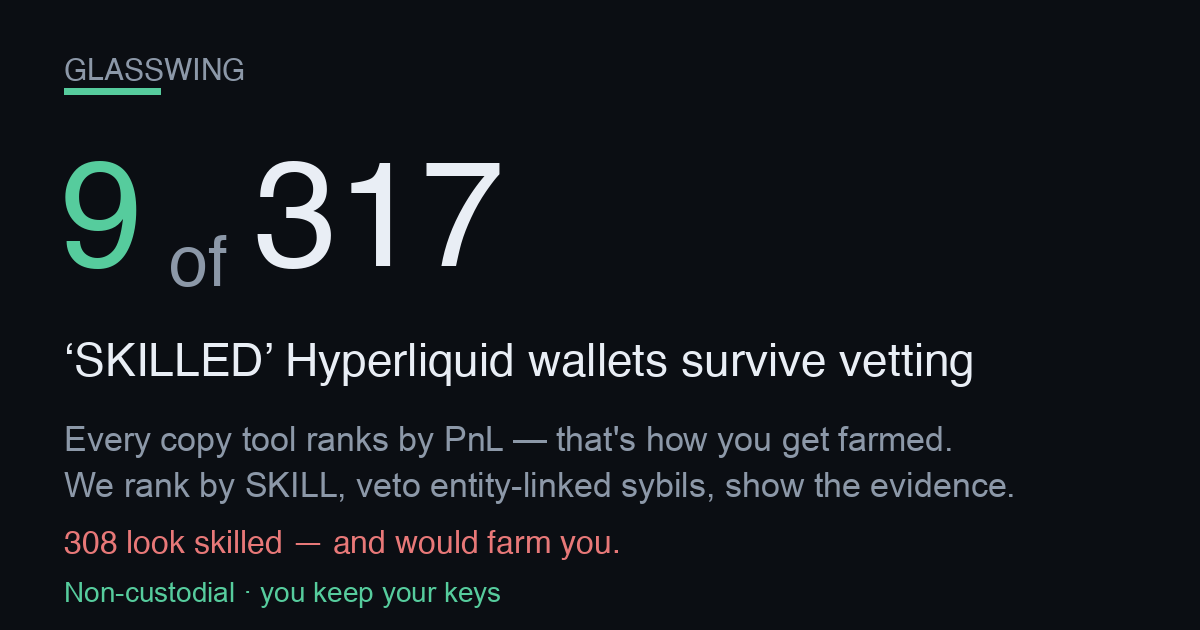
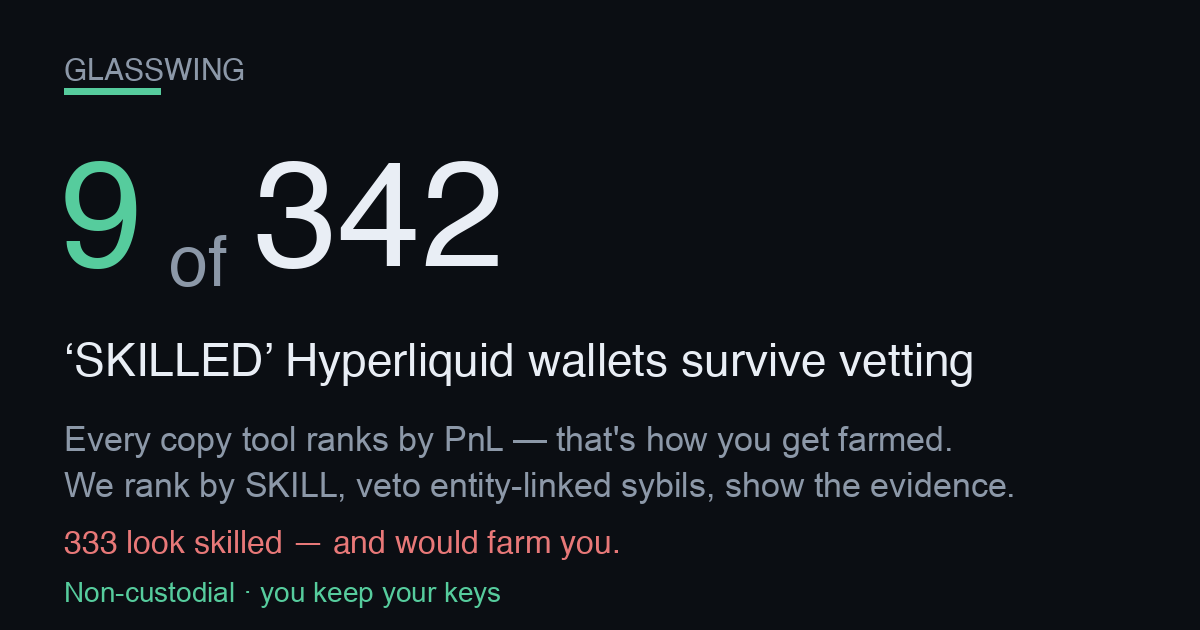
publish funnel 2026-09-06T02:05:58Z

Changed region(s): [[0.2775, 0.2413, 0.4317, 0.4222], [0.0617, 0.8444, 0.0925, 0.8746]]

diff --git a/screener.html b/screener.html
@@ -57,4 +57,4 @@ padding:11px 22px;font-size:15px;font-weight:800;border:1px solid var(--good)}
 footer{margin-top:34px;color:var(--muted);font-size:12px;line-height:1.6;
 border-top:1px solid var(--line);padding-top:16px}
 footer b{color:var(--ink)}
-</style></head><body><div class="wrap"><div class="nav"><a href="./index.html">&larr; Glasswing home</a><span class="sep">|</span><span>Edge Screener</span><span class="sep">|</span><a href="./dex.html">Copy a vetted leader</a></div><div class="hero"><h1>Hyperliquid Edge Screener</h1><div class="sub">Where&rsquo;s the carry, where a maker earns, and what&rsquo;s moving on Hyperliquid &mdash; live, computed from the public API. Bookmark it. Every number below is real and timestamped.</div><div class="stamp">Data as of <b>2026-08-31T03:13:58Z</b> &middot; rendered 2026-08-31T03:13:58Z &middot; 176 perps &middot; 103 HIP-3 (xyz) markets scanned</div></div><h2>Top funding &mdash; the carry table <span class="hint">perps ranked by annualized funding. Positive = longs pay shorts (a delta-neutral short earns it).</span></h2><div class="tblwrap"><table><thead><tr><th>Coin</th><th>Funding / hr</th><th>Annualized</th><th>Who pays</th><th>Open interest</th><th>24h volume</th></tr></thead><tbody><tr><td class="coin">SKR</td><td>-0.4035%</td><td class="neg">-3534.5%</td><td><span class="tag shorts">shorts pay</span></td><td>$7.1M</td><td>$25.5M</td></tr><tr><td class="coin">ZORA</td><td>-0.1722%</td><td class="neg">-1508.2%</td><td><span class="tag shorts">shorts pay</span></td><td>$2.9M</td><td>$1.9M</td></tr><tr><td class="coin">ANIME<span class="tag thin" title="Low liquidity/OI &mdash; ADL &amp; liquidation risk; funding can flip">&#9888; thin</span></td><td>-0.0563%</td><td class="neg">-493.5%</td><td><span class="tag shorts">shorts pay</span></td><td>$245K</td><td>$397K</td></tr><tr><td class="coin">KAITO</td><td>-0.0245%</td><td class="neg">-214.4%</td><td><span class="tag shorts">shorts pay</span></td><td>$2.6M</td><td>$1.5M</td></tr><tr><td class="coin">APEX<span class="tag thin" title="Low liquidity/OI &mdash; ADL &amp; liquidation risk; funding can flip">&#9888; thin</span></td><td>+0.0213%</td><td class="pos">+186.9%</td><td><span class="tag longs">longs pay</span></td><td>$3.0M</td><td>$168K</td></tr><tr><td class="coin">0G<span class="tag thin" title="Low liquidity/OI &mdash; ADL &amp; liquidation risk; funding can flip">&#9888; thin</span></td><td>-0.0115%</td><td class="neg">-100.8%</td><td><span class="tag shorts">shorts pay</span></td><td>$132K</td><td>$241K</td></tr><tr><td class="coin">XMR</td><td>+0.0089%</td><td class="pos">+78.0%</td><td><span class="tag longs">longs pay</span></td><td>$82.5M</td><td>$66.1M</td></tr><tr><td class="coin">SAND<span class="tag thin" title="Low liquidity/OI &mdash; ADL &amp; liquidation risk; funding can flip">&#9888; thin</span></td><td>-0.0081%</td><td class="neg">-71.3%</td><td><span class="tag shorts">shorts pay</span></td><td>$499K</td><td>$195K</td></tr><tr><td class="coin">ZEC</td><td>-0.0080%</td><td class="neg">-69.7%</td><td><span class="tag shorts">shorts pay</span></td><td>$461.2M</td><td>$390.2M</td></tr><tr><td class="coin">APT</td><td>-0.0064%</td><td class="neg">-55.9%</td><td><span class="tag shorts">shorts pay</span></td><td>$3.7M</td><td>$1.3M</td></tr><tr><td class="coin">W<span class="tag thin" title="Low liquidity/OI &mdash; ADL &amp; liquidation risk; funding can flip">&#9888; thin</span></td><td>-0.0059%</td><td class="neg">-51.2%</td><td><span class="tag shorts">shorts pay</span></td><td>$1.3M</td><td>$207K</td></tr><tr><td class="coin">OP</td><td>-0.0053%</td><td class="neg">-46.2%</td><td><span class="tag shorts">shorts pay</span></td><td>$2.9M</td><td>$639K</td></tr></tbody></table></div><h2>Widest HIP-3 spreads &mdash; where a maker earns <span class="hint">xyz: markets by impact-price spread vs the ~0.6bps round-trip fee. A resting limit order captures the gap.</span></h2><div class="tblwrap"><table><thead><tr><th>Market</th><th>Spread</th><th>vs 0.6bps fee</th><th>Mid</th><th>24h volume</th></tr></thead><tbody><tr><td class="coin">xyz:BIRD<span class="tag gm">growth</span></td><td>168.6 bps</td><td class="pos">+168.0 bps</td><td>2.5284</td><td>$14K</td></tr><tr><td class="coin">xyz:SOFTBANK<span class="tag gm">growth</span></td><td>111.3 bps</td><td class="pos">+110.7 bps</td><td>31.5380</td><td>$59K</td></tr><tr><td class="coin">xyz:SHEIN<span class="tag gm">growth</span></td><td>99.0 bps</td><td class="pos">+98.4 bps</td><td>6.4710</td><td>$750K</td></tr><tr><td class="coin">xyz:NCLD<span class="tag gm">growth</span></td><td>86.6 bps</td><td class="pos">+86.0 bps</td><td>21.7730</td><td>$33K</td></tr><tr><td class="coin">xyz:NET<span class="tag gm">growth</span></td><td>77.1 bps</td><td class="pos">+76.5 bps</td><td>297.3850</td><td>$28K</td></tr><tr><td class="coin">xyz:ZM<span class="tag gm">growth</span></td><td>68.7 bps</td><td class="pos">+68.1 bps</td><td>98.4160</td><td>$28K</td></tr><tr><td class="coin">xyz:XBI<span class="tag gm">growth</span></td><td>66.5 bps</td><td class="pos">+65.9 bps</td><td>161.8150</td><td>$12K</td></tr><tr><td class="coin">xyz:PURRDAT</td><td>61.0 bps</td><td class="pos">+60.4 bps</td><td>11.7065</td><td>$2.2M</td></tr><tr><td class="coin">xyz:DKNG<span class="tag gm">growth</span></td><td>53.0 bps</td><td class="pos">+52.4 bps</td><td>25.2370</td><td>$20K</td></tr><tr><td class="coin">xyz:RDDT<span class="tag gm">growth</span></td><td>51.9 bps</td><td class="pos">+51.3 bps</td><td>152.2400</td><td>$73K</td></tr><tr><td class="coin">xyz:LYTE<span class="tag gm">growth</span></td><td>46.3 bps</td><td class="pos">+45.7 bps</td><td>24.0125</td><td>$80K</td></tr><tr><td class="coin">xyz:SHAZ<span class="tag gm">growth</span></td><td>46.0 bps</td><td class="pos">+45.4 bps</td><td>51.5945</td><td>$80K</td></tr></tbody></table></div><h2>Momentum &amp; volume &mdash; what&rsquo;s moving <span class="hint">perps by 24h volume with the 24h price change (mark vs prior-day).</span></h2><div class="tblwrap"><table><thead><tr><th>Coin</th><th>24h volume</th><th>24h change</th><th>Mark</th></tr></thead><tbody><tr><td class="coin">BTC</td><td>$2.03B</td><td class="neg">-0.53%</td><td>77,642.00</td></tr><tr><td class="coin">ETH</td><td>$1.45B</td><td class="neg">-1.63%</td><td>2,415.30</td></tr><tr><td class="coin">SOL</td><td>$543.3M</td><td class="neg">-3.15%</td><td>101.7100</td></tr><tr><td class="coin">HYPE</td><td>$411.1M</td><td class="neg">-3.23%</td><td>80.2440</td></tr><tr><td class="coin">ZEC</td><td>$390.2M</td><td class="neg">-1.98%</td><td>816.5800</td></tr><tr><td class="coin">PUMP</td><td>$145.7M</td><td class="neg">-14.87%</td><td>0.004237</td></tr><tr><td class="coin">XRP</td><td>$84.0M</td><td class="neg">-3.04%</td><td>1.3506</td></tr><tr><td class="coin">XMR</td><td>$66.1M</td><td class="pos">+5.25%</td><td>499.1000</td></tr><tr><td class="coin">LIT</td><td>$52.6M</td><td class="neg">-1.06%</td><td>3.4840</td></tr><tr><td class="coin">UNI</td><td>$45.3M</td><td class="pos">+2.67%</td><td>5.0267</td></tr><tr><td class="coin">TRUMP</td><td>$34.6M</td><td class="neg">-9.49%</td><td>2.3623</td></tr><tr><td class="coin">ENA</td><td>$32.3M</td><td class="neg">-6.95%</td><td>0.14773</td></tr></tbody></table></div><div class="cta"><h2>These are the opportunities. Now copy the people who trade them.</h2><p class="lead">Spotting the carry and the spreads is the easy part &mdash; sizing, timing and risk are where most traders bleed. Copy the <b>skill-vetted</b> Hyperliquid leaders who actually trade these edges. Non-custodial: <b>you keep your keys and your funds</b> the entire time.</p><div class="row"><a class="btn" href="./index.html">See the vetted leaders &rarr;</a><a class="btn ghost" href="./dex.html">Start copying (non-custodial) &rarr;</a></div><div class="nc"><b>Non-custodial &amp; honest:</b> we never hold your keys or funds. Copying routes through a <b>0.01%</b> (1bp) on-chain builder fee &mdash; that is the only thing we ever charge, and it is the same fee shown on the copy page. Nothing on this screener is executed for you; it is information only.</div></div><footer><b>Not financial advice.</b> Funding rates, spreads and volumes are live snapshots that change every block; figures can be stale by the time you act. A high funding rate is <b>not free money</b> &mdash; the biggest rates sit on the thinnest, most crowded books (flagged &#9888; thin), where funding can flip against you and auto-deleveraging (ADL) or liquidation can close your position. &ldquo;Spread&rdquo; here is the impact-price spread (a conservative maker signal), not a guaranteed fill. HIP-3 markets are experimental. Do your own research and size responsibly. Glasswing is <b>non-custodial</b> &mdash; we never take custody of your keys or funds.</footer></div></body></html>
+</style></head><body><div class="wrap"><div class="nav"><a href="./index.html">&larr; Glasswing home</a><span class="sep">|</span><span>Edge Screener</span><span class="sep">|</span><a href="./dex.html">Copy a vetted leader</a></div><div class="hero"><h1>Hyperliquid Edge Screener</h1><div class="sub">Where&rsquo;s the carry, where a maker earns, and what&rsquo;s moving on Hyperliquid &mdash; live, computed from the public API. Bookmark it. Every number below is real and timestamped.</div><div class="stamp">Data as of <b>2026-09-06T02:03:11Z</b> &middot; rendered 2026-09-06T02:03:11Z &middot; 177 perps &middot; 104 HIP-3 (xyz) markets scanned</div></div><h2>Top funding &mdash; the carry table <span class="hint">perps ranked by annualized funding. Positive = longs pay shorts (a delta-neutral short earns it).</span></h2><div class="tblwrap"><table><thead><tr><th>Coin</th><th>Funding / hr</th><th>Annualized</th><th>Who pays</th><th>Open interest</th><th>24h volume</th></tr></thead><tbody><tr><td class="coin">HEMI</td><td>-0.0600%</td><td class="neg">-525.9%</td><td><span class="tag shorts">shorts pay</span></td><td>$1.3M</td><td>$3.0M</td></tr><tr><td class="coin">SKR</td><td>-0.0534%</td><td class="neg">-467.9%</td><td><span class="tag shorts">shorts pay</span></td><td>$2.5M</td><td>$1.7M</td></tr><tr><td class="coin">ACE</td><td>-0.0482%</td><td class="neg">-422.0%</td><td><span class="tag shorts">shorts pay</span></td><td>$1.1M</td><td>$614K</td></tr><tr><td class="coin">GRIFFAIN<span class="tag thin" title="Low liquidity/OI &mdash; ADL &amp; liquidation risk; funding can flip">&#9888; thin</span></td><td>+0.0181%</td><td class="pos">+158.7%</td><td><span class="tag longs">longs pay</span></td><td>$858K</td><td>$29K</td></tr><tr><td class="coin">MOODENG</td><td>+0.0151%</td><td class="pos">+132.2%</td><td><span class="tag longs">longs pay</span></td><td>$911K</td><td>$1.1M</td></tr><tr><td class="coin">PUMP</td><td>+0.0127%</td><td class="pos">+111.0%</td><td><span class="tag longs">longs pay</span></td><td>$176.8M</td><td>$84.3M</td></tr><tr><td class="coin">BSV<span class="tag thin" title="Low liquidity/OI &mdash; ADL &amp; liquidation risk; funding can flip">&#9888; thin</span></td><td>+0.0124%</td><td class="pos">+108.7%</td><td><span class="tag longs">longs pay</span></td><td>$503K</td><td>$116K</td></tr><tr><td class="coin">MINA</td><td>-0.0123%</td><td class="neg">-108.2%</td><td><span class="tag shorts">shorts pay</span></td><td>$2.5M</td><td>$321K</td></tr><tr><td class="coin">KAS</td><td>+0.0113%</td><td class="pos">+99.1%</td><td><span class="tag longs">longs pay</span></td><td>$2.0M</td><td>$355K</td></tr><tr><td class="coin">GRAM</td><td>+0.0110%</td><td class="pos">+96.5%</td><td><span class="tag longs">longs pay</span></td><td>$31.0M</td><td>$3.4M</td></tr><tr><td class="coin">MON</td><td>+0.0106%</td><td class="pos">+92.8%</td><td><span class="tag longs">longs pay</span></td><td>$37.2M</td><td>$7.4M</td></tr><tr><td class="coin">PONS</td><td>+0.0102%</td><td class="pos">+89.5%</td><td><span class="tag longs">longs pay</span></td><td>$124.5M</td><td>$182.9M</td></tr></tbody></table></div><h2>Widest HIP-3 spreads &mdash; where a maker earns <span class="hint">xyz: markets by impact-price spread vs the ~0.6bps round-trip fee. A resting limit order captures the gap.</span></h2><div class="tblwrap"><table><thead><tr><th>Market</th><th>Spread</th><th>vs 0.6bps fee</th><th>Mid</th><th>24h volume</th></tr></thead><tbody><tr><td class="coin">xyz:NCLD<span class="tag gm">growth</span></td><td>235.2 bps</td><td class="pos">+234.6 bps</td><td>24.1315</td><td>$5K</td></tr><tr><td class="coin">xyz:GIGADEV<span class="tag gm">growth</span></td><td>219.6 bps</td><td class="pos">+219.0 bps</td><td>58.3500</td><td>$69K</td></tr><tr><td class="coin">xyz:BIRD<span class="tag gm">growth</span></td><td>139.0 bps</td><td class="pos">+138.4 bps</td><td>2.5180</td><td>$6K</td></tr><tr><td class="coin">xyz:PURRDAT</td><td>132.1 bps</td><td class="pos">+131.5 bps</td><td>12.3365</td><td>$768K</td></tr><tr><td class="coin">xyz:MAGS<span class="tag gm">growth</span></td><td>122.4 bps</td><td class="pos">+121.8 bps</td><td>69.0520</td><td>$92K</td></tr><tr><td class="coin">xyz:QNT<span class="tag gm">growth</span></td><td>99.6 bps</td><td class="pos">+99.0 bps</td><td>50.6905</td><td>$67K</td></tr><tr><td class="coin">xyz:URNM<span class="tag gm">growth</span></td><td>96.4 bps</td><td class="pos">+95.8 bps</td><td>57.8465</td><td>$16K</td></tr><tr><td class="coin">xyz:BOT<span class="tag gm">growth</span></td><td>90.7 bps</td><td class="pos">+90.1 bps</td><td>27.0055</td><td>$21K</td></tr><tr><td class="coin">xyz:SOFTBANK<span class="tag gm">growth</span></td><td>82.7 bps</td><td class="pos">+82.1 bps</td><td>35.7820</td><td>$4K</td></tr><tr><td class="coin">xyz:BMNR</td><td>80.7 bps</td><td class="pos">+80.1 bps</td><td>25.5790</td><td>$108K</td></tr><tr><td class="coin">xyz:SHEIN<span class="tag gm">growth</span></td><td>78.3 bps</td><td class="pos">+77.7 bps</td><td>4.9787</td><td>$100K</td></tr><tr><td class="coin">xyz:RDDT<span class="tag gm">growth</span></td><td>74.7 bps</td><td class="pos">+74.1 bps</td><td>155.4450</td><td>$45K</td></tr></tbody></table></div><h2>Momentum &amp; volume &mdash; what&rsquo;s moving <span class="hint">perps by 24h volume with the 24h price change (mark vs prior-day).</span></h2><div class="tblwrap"><table><thead><tr><th>Coin</th><th>24h volume</th><th>24h change</th><th>Mark</th></tr></thead><tbody><tr><td class="coin">BTC</td><td>$766.0M</td><td class="pos">+0.52%</td><td>79,901.00</td></tr><tr><td class="coin">ETH</td><td>$380.5M</td><td class="pos">+2.20%</td><td>2,505.10</td></tr><tr><td class="coin">HYPE</td><td>$198.8M</td><td class="pos">+1.38%</td><td>85.2130</td></tr><tr><td class="coin">PONS</td><td>$182.9M</td><td class="pos">+42.19%</td><td>0.94905</td></tr><tr><td class="coin">ZEC</td><td>$177.3M</td><td class="pos">+5.43%</td><td>1,067.97</td></tr><tr><td class="coin">SOL</td><td>$91.6M</td><td class="pos">+2.08%</td><td>103.9300</td></tr><tr><td class="coin">PUMP</td><td>$84.3M</td><td class="neg">-7.47%</td><td>0.003912</td></tr><tr><td class="coin">ARB</td><td>$64.8M</td><td class="pos">+46.49%</td><td>0.19338</td></tr><tr><td class="coin">BNB</td><td>$49.2M</td><td class="pos">+6.03%</td><td>764.1000</td></tr><tr><td class="coin">UNI</td><td>$48.2M</td><td class="pos">+20.05%</td><td>7.3768</td></tr><tr><td class="coin">LIT</td><td>$43.1M</td><td class="neg">-1.19%</td><td>4.6780</td></tr><tr><td class="coin">NEAR</td><td>$38.6M</td><td class="neg">-0.45%</td><td>2.2048</td></tr></tbody></table></div><div class="cta"><h2>These are the opportunities. Now copy the people who trade them.</h2><p class="lead">Spotting the carry and the spreads is the easy part &mdash; sizing, timing and risk are where most traders bleed. Copy the <b>skill-vetted</b> Hyperliquid leaders who actually trade these edges. Non-custodial: <b>you keep your keys and your funds</b> the entire time.</p><div class="row"><a class="btn" href="./index.html">See the vetted leaders &rarr;</a><a class="btn ghost" href="./dex.html">Start copying (non-custodial) &rarr;</a></div><div class="nc"><b>Non-custodial &amp; honest:</b> we never hold your keys or funds. Copying routes through a <b>0.01%</b> (1bp) on-chain builder fee &mdash; that is the only thing we ever charge, and it is the same fee shown on the copy page. Nothing on this screener is executed for you; it is information only.</div></div><footer><b>Not financial advice.</b> Funding rates, spreads and volumes are live snapshots that change every block; figures can be stale by the time you act. A high funding rate is <b>not free money</b> &mdash; the biggest rates sit on the thinnest, most crowded books (flagged &#9888; thin), where funding can flip against you and auto-deleveraging (ADL) or liquidation can close your position. &ldquo;Spread&rdquo; here is the impact-price spread (a conservative maker signal), not a guaranteed fill. HIP-3 markets are experimental. Do your own research and size responsibly. Glasswing is <b>non-custodial</b> &mdash; we never take custody of your keys or funds.</footer></div></body></html>

diff --git a/track.html b/track.html
@@ -62,35 +62,35 @@ font-weight:600;font-size:14px}
 <div class="wrap">
   <div class="hero">
     <h1>Self-verifying on-chain track record</h1>
-    <div class="big">$185.91</div>
+    <div class="big">—</div>
     <div class="sub">current on-chain equity (perp + vault + spot USDC)</div>
     <div class="addr">0xbe6C1b09662BbE52CC93279D103Feb27985DdBc1</div>
-    <div class="stage building">43 days live — BUILDING</div>
+    <div class="stage building">49 days live — BUILDING</div>
   </div>
 
   
 
   <h2>On-chain figures <span style="color:var(--muted);font-weight:400;font-size:13px">
   &mdash; every one reproducible from the public info API</span></h2>
-  <table><tbody><tr><td class="k">On-chain equity (perp + vault + spot USDC)</td><td class="v">$185.91</td></tr><tr><td class="k">Perp account value</td><td class="v">$101.99</td></tr><tr><td class="k">Vault equity</td><td class="v">$29.13</td></tr><tr><td class="k">Spot USDC</td><td class="v">$54.79</td></tr><tr><td class="k">Withdrawable</td><td class="v">$24.16</td></tr></tbody></table>
+  <table><tbody><tr><td class="k">On-chain equity (perp + vault + spot USDC)</td><td class="v">—</td></tr><tr><td class="k">Perp account value</td><td class="v">—</td></tr><tr><td class="k">Vault equity</td><td class="v">—</td></tr><tr><td class="k">Spot USDC</td><td class="v">—</td></tr><tr><td class="k">Withdrawable</td><td class="v">—</td></tr></tbody></table>
 
-  <h2>Vault deposits (on-chain)</h2><table><thead><tr><th>Vault address</th><th>Our equity</th></tr></thead><tbody><tr><td class="mono">0x2431edfcb662e6ff6deab113cc91878a0b53fb0f</td><td class="v">$0.01</td></tr><tr><td class="mono">0x697bc3dd77539fa84156d0e1c95287ea5524fd6b</td><td class="v">$0.00</td></tr><tr><td class="mono">0x8825e6ed11c7f9c0874579c9f4bba192b9e81c8f</td><td class="v">$0.13</td></tr><tr><td class="mono">0xc71f5a493b937e4b1798b86510630336a6dfd804</td><td class="v">$28.99</td></tr></tbody></table>
+  
 
   <h2>Performance <span style="color:var(--muted);font-weight:400;font-size:13px">
   &mdash; honest stage, no annualization</span></h2>
-  <table><tbody><tr><td class="k">Days live (our formal record)</td><td class="v">43</td></tr><tr><td class="k">Maturity</td><td class="v">BUILDING</td></tr><tr><td class="k">Current real strategy income / day</td><td class="v">$0.0410</td></tr><tr><td class="k">Cumulative net income (if attributed)</td><td class="v">$36.7069</td></tr><tr><td class="k">Annualized APR</td><td class="v">shown per-day above</td></tr></tbody></table>
+  <table><tbody><tr><td class="k">Days live (our formal record)</td><td class="v">49</td></tr><tr><td class="k">Maturity</td><td class="v">BUILDING</td></tr><tr><td class="k">Current real strategy income / day</td><td class="v">$0.0621</td></tr><tr><td class="k">Cumulative net income (if attributed)</td><td class="v">$37.1084</td></tr><tr><td class="k">Annualized APR</td><td class="v">shown per-day above</td></tr></tbody></table>
 
   <h2>Strategy arms <span style="color:var(--muted);font-weight:400;font-size:13px">
   &mdash; internal marks, cross-checkable against chain equity</span></h2>
-  <table><thead><tr><th>Arm</th><th>Status</th><th>Real / day</th><th>Note</th></tr></thead><tbody><tr><td class="v">carry</td><td><span class="badge live">live</span></td><td class="v">$0.0410</td><td class="k"></td></tr><tr><td class="v">copy</td><td><span class="badge live">live</span></td><td class="v">$0.0000</td><td class="k"></td></tr><tr><td class="v">builder</td><td><span class="badge off">—</span></td><td class="v">$0.0000</td><td class="k">proven live; $0 until distributed (∝ users&#x27; volume)</td></tr></tbody></table>
+  <table><thead><tr><th>Arm</th><th>Status</th><th>Real / day</th><th>Note</th></tr></thead><tbody><tr><td class="v">carry</td><td><span class="badge live">live</span></td><td class="v">$0.0621</td><td class="k"></td></tr><tr><td class="v">copy</td><td><span class="badge live">live</span></td><td class="v">$0.0000</td><td class="k"></td></tr><tr><td class="v">builder</td><td><span class="badge off">—</span></td><td class="v">$0.0000</td><td class="k">proven live; $0 until distributed (∝ users&#x27; volume)</td></tr></tbody></table>
 
   <h2>Reproduce it</h2>
   <div class="verify"><h3>Verify this yourself</h3><p>These are PUBLIC calls. Run them yourself against the address below and you will re-derive every on-chain figure on this page. equity_usd = perp accountValue + vault equity + spot USDC. Endpoint: https://api.hyperliquid.xyz/info</p><div class="cn">clearinghouseState &rarr; marginSummary.accountValue (perp value), withdrawable, marginSummary.totalMarginUsed</div><pre>curl -s -X POST https://api.hyperliquid.xyz/info -H &#x27;Content-Type: application/json&#x27; -d &#x27;{&quot;type&quot;: &quot;clearinghouseState&quot;, &quot;user&quot;: &quot;0xbe6C1b09662BbE52CC93279D103Feb27985DdBc1&quot;}&#x27;</pre><div class="cn">userVaultEquities &rarr; sum of each entry&#x27;s equity (our vault deposits)</div><pre>curl -s -X POST https://api.hyperliquid.xyz/info -H &#x27;Content-Type: application/json&#x27; -d &#x27;{&quot;type&quot;: &quot;userVaultEquities&quot;, &quot;user&quot;: &quot;0xbe6C1b09662BbE52CC93279D103Feb27985DdBc1&quot;}&#x27;</pre><div class="cn">spotClearinghouseState &rarr; balances[] where coin==USDC -&gt; total (spot USDC)</div><pre>curl -s -X POST https://api.hyperliquid.xyz/info -H &#x27;Content-Type: application/json&#x27; -d &#x27;{&quot;type&quot;: &quot;spotClearinghouseState&quot;, &quot;user&quot;: &quot;0xbe6C1b09662BbE52CC93279D103Feb27985DdBc1&quot;}&#x27;</pre></div>
 
   <footer>
     <div>Self-verifying: every on-chain figure is reproducible by querying Hyperliquid&#x27;s public info API for the stated address. Internal daily marks are cross-checkable against on-chain equity. EARLY-STAGE record — not a mature track record, not an APR promise, not financial advice. Past performance != future results.</div>
-    <div class="stamp">Generated at 2026-08-31T03:13:13Z &middot; internal marks
-    mtime 2026-08-30T22:42:51Z &middot; static receipt, no live
+    <div class="stamp">Generated at 2026-09-06T02:01:05Z &middot; internal marks
+    mtime 2026-09-06T01:32:24Z &middot; fetch notes: clearinghouseState:HTTPError, userVaultEquities:HTTPError, spotClearinghouseState:HTTPError &middot; static receipt, no live
     authority — this page never trades or arms.</div>
   </footer>
 </div>

diff --git a/index.html b/index.html
@@ -3,8 +3,8 @@
 <head>
 <meta charset="utf-8">
 <meta name="viewport" content="width=device-width, initial-scale=1">
-<title>9 of 317 SKILLED Hyperliquid wallets survive vetting</title>
-<meta name="description" content="9 of 317 leaderboard-SKILLED Hyperliquid wallets survive vetting. Copy only the survivors, non-custodial — you keep your keys and funds.">
+<title>9 of 342 SKILLED Hyperliquid wallets survive vetting</title>
+<meta name="description" content="9 of 342 leaderboard-SKILLED Hyperliquid wallets survive vetting. Copy only the survivors, non-custodial — you keep your keys and funds.">
 <link rel="canonical" href="https://dynobit.github.io/glasswing/">
 <meta name="robots" content="index,follow">
 <meta name="theme-color" content="#0b0e13">
@@ -14,14 +14,14 @@
      head, not this. og:url is the canonical Pages home so every share resolves here. -->
 <meta property="og:type" content="website">
 <meta property="og:site_name" content="Glasswing">
-<meta property="og:title" content="9 of 317 SKILLED Hyperliquid wallets survive vetting">
+<meta property="og:title" content="9 of 342 SKILLED Hyperliquid wallets survive vetting">
 <meta property="og:description" content="Every copy tool ranks leaders by PnL — which is how you get farmed. This ranks by SKILL, then vetoes entity-linked sybils, and shows the evidence for every reject. Non-custodial: you keep your keys.">
 <meta property="og:url" content="https://dynobit.github.io/glasswing/">
 <meta property="og:image" content="https://dynobit.github.io/glasswing/og-card.png">
 <meta property="og:image:width" content="1200">
 <meta property="og:image:height" content="630">
 <meta name="twitter:card" content="summary_large_image">
-<meta name="twitter:title" content="9 of 317 SKILLED Hyperliquid wallets survive vetting">
+<meta name="twitter:title" content="9 of 342 SKILLED Hyperliquid wallets survive vetting">
 <meta name="twitter:description" content="Skill-ranked (not PnL-ranked) HL copy-leaders, entity-linked sybils vetoed with evidence. Non-custodial.">
 <meta name="twitter:image" content="https://dynobit.github.io/glasswing/og-card.png">
 <style>
@@ -135,18 +135,18 @@ footer .nc{color:var(--good);font-weight:600}
 
   <!-- 1. HERO — the shareable hook (screenshot-worthy) -->
   <div class="hero">
-    <h1><span class="big">9 of 317</span> &lsquo;SKILLED&rsquo;
+    <h1><span class="big">9 of 342</span> &lsquo;SKILLED&rsquo;
     Hyperliquid wallets survive vetting</h1>
-    <div class="sub">The other <span class="trap">308</span> look skilled on a
+    <div class="sub">The other <span class="trap">333</span> look skilled on a
     raw copy leaderboard but would farm you &mdash; here are the
-    <span class="trap">308</span> that would. Entity-linked sybils,
-    wash-traded track records, or simply unscreened. 2.8% survive.
-    Universe: 2901 scored wallets.</div>
+    <span class="trap">333</span> that would. Entity-linked sybils,
+    wash-traded track records, or simply unscreened. 2.6% survive.
+    Universe: 3173 scored wallets.</div>
   </div>
 
   <!-- 2. THE WEDGE — the marketing (why us, not any other copy tool) -->
   <div class="wedge"><span class="them">Every other copy tool ranks all
-    317 by PnL and calls it a leaderboard.</span> We are the only one that
+    342 by PnL and calls it a leaderboard.</span> We are the only one that
     <b>flags the entity-linked and farming wallets with on-chain evidence</b> &mdash;
     transfer-graph linkage between wallets and arXiv memecoin farm-features &mdash;
     and shows you only the 9 that survive. A high PnL is exactly what a
@@ -268,7 +268,7 @@ footer .nc{color:var(--good);font-weight:600}
   <footer>
     <div class="nc">Non-custodial: we never hold your keys or funds. No server, no backend. Your browser talks only to Hyperliquid&#x27;s public API.</div>
     <div>Advisory. Skill = sign-randomization null vs luck. Entity veto = public transfer-graph linkage. Farm screen = arXiv:2601.08641 features (memecoin thresholds, HL-uncalibrated). Follower-realizable PnL is NOT yet proven — a PRE-COMMITTED forward test is in progress (0/2 windows, earliest 2026-08-13); the copyability claim publishes only when the pre-registered windows close, so it cannot be discovery-mined. Exit-alpha shown is advisory. Not financial advice.</div>
-    <div class="stamp">Generated at 2026-08-31T03:13:25Z &middot; single-file funnel,
+    <div class="stamp">Generated at 2026-09-06T02:01:51Z &middot; single-file funnel,
     no live authority. In-browser order signing is IMPLEMENTED (real secp256k1 +
     keccak + msgpack EIP-712 from a pinned CDN) but UNVALIDATED against Hyperliquid:
     mainnet is blocked until a testnet order is proven accepted.</div>

diff --git a/dex.html b/dex.html
@@ -112,8 +112,8 @@ footer .nc{color:var(--good);font-weight:600}
     funds and your keys the whole time. Two signatures in your own wallet, an
     ephemeral in-browser agent key that can trade but never withdraw, and a
     client-side loop that mirrors only the
-    <b>9 of 317</b> vetted survivors
-    (universe: 2901 scored wallets). No server, no backend.</div>
+    <b>9 of 342</b> vetted survivors
+    (universe: 3173 scored wallets). No server, no backend.</div>
     <div class="tag">static bundle &middot; IPFS-publishable &middot; revenue accrues on-chain</div>
   </div>
 
@@ -217,7 +217,7 @@ footer .nc{color:var(--good);font-weight:600}
   <footer>
     <div class="nc">Pure DEX, self-custodial. No server, no backend, no key we ever hold. Your browser talks only to Hyperliquid&#x27;s public API.</div>
     <div>Advisory. Skill = sign-randomization null vs luck. Entity veto = public transfer-graph linkage. Farm screen = arXiv:2601.08641 features (memecoin thresholds, HL-uncalibrated). Follower-realizable PnL is NOT yet proven — a PRE-COMMITTED forward test is in progress (0/2 windows, earliest 2026-08-13); the copyability claim publishes only when the pre-registered windows close, so it cannot be discovery-mined. Exit-alpha shown is advisory. Not financial advice.</div>
-    <div class="stamp">Generated at 2026-08-31T03:13:25Z &middot; static,
+    <div class="stamp">Generated at 2026-09-06T02:01:51Z &middot; static,
     self-custodial surface, no live authority. In-browser order signing is
     IMPLEMENTED (real secp256k1 + keccak + msgpack EIP-712 from a pinned CDN) but
     UNVALIDATED against Hyperliquid: mainnet is blocked until a testnet order is
